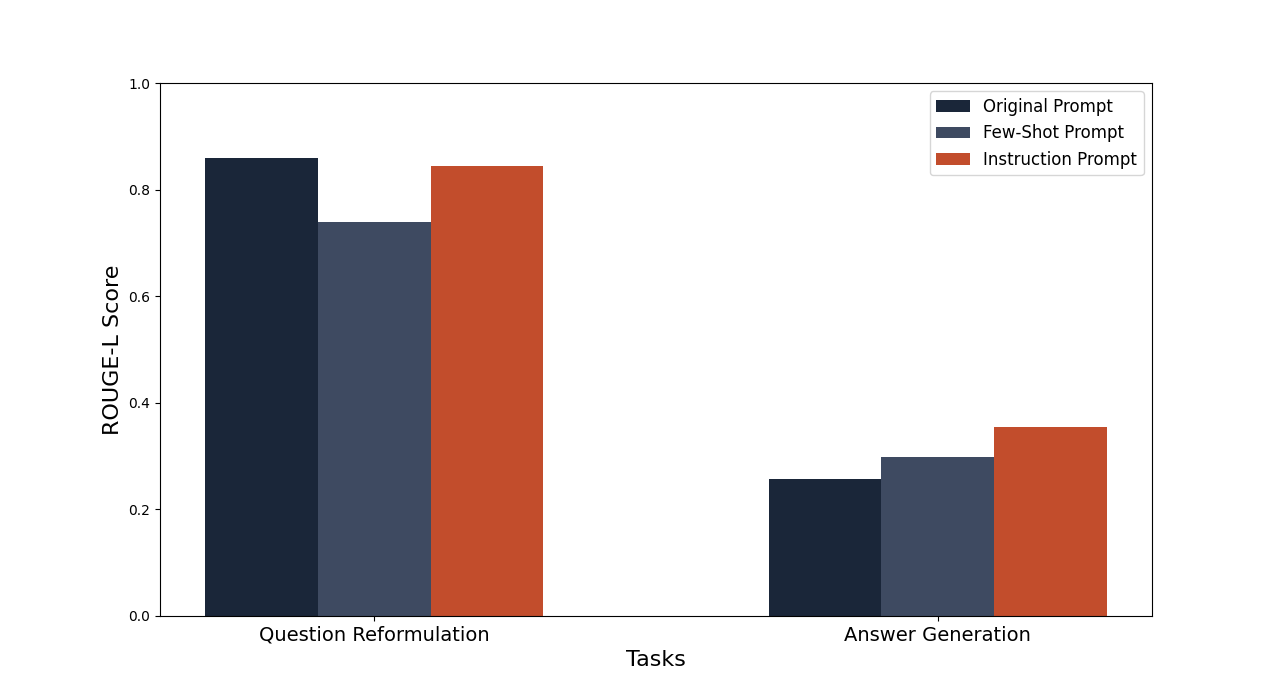
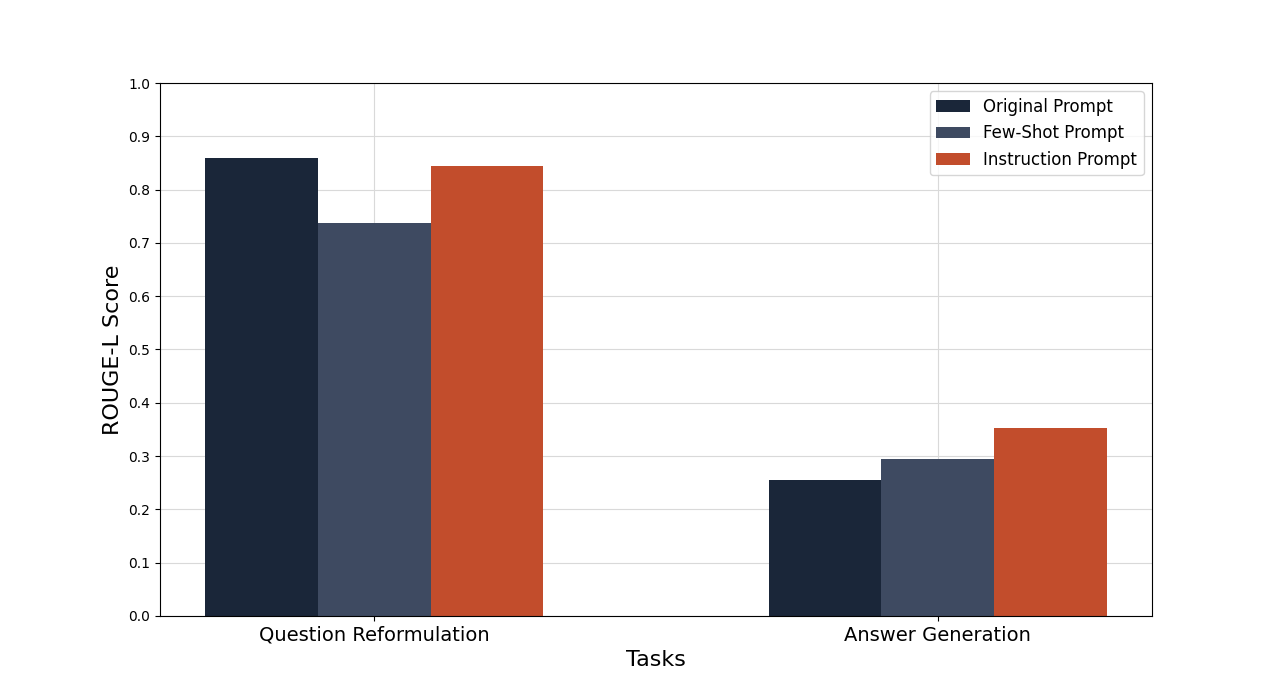
visualizations

diff --git a/testing/tests/testing_memory.py b/testing/tests/testing_memory.py
@@ -293,7 +293,12 @@ ax.set_ylabel('BLEU-4 Score', fontsize=16)
 ax.set_xticks(index + bar_width)
 ax.set_xticklabels(tasks, fontsize=14)
 ax.legend(fontsize=12)
+ax.set_yticks(np.arange(0, 1.1, 0.1))
 ax.set_ylim([0, 1])
+
+# Adding customized grid lines
+ax.grid(True, color='#D9D9D9')  # Set the color of the grid lines
+ax.set_axisbelow(True)
 
 # Show BLEU plot
 plt.show()
@@ -312,7 +317,12 @@ ax.set_ylabel('ROUGE-L Score', fontsize=16)
 ax.set_xticks(index + bar_width)
 ax.set_xticklabels(tasks, fontsize=14)
 ax.legend(fontsize=12)
+ax.set_yticks(np.arange(0, 1.1, 0.1))
 ax.set_ylim([0, 1])
+
+# Adding customized grid lines
+ax.grid(True, color='#D9D9D9')  # Set the color of the grid lines
+ax.set_axisbelow(True)
 
 # Show ROUGE plot
 plt.show()
@@ -333,7 +343,12 @@ ax.set_ylabel('Average F1-Score', fontsize=16)
 ax.set_xticks(index + bar_width)
 ax.set_xticklabels(tasks, fontsize=14)
 ax.legend(fontsize=12)
+ax.set_yticks(np.arange(0, 1.1, 0.1))
 ax.set_ylim([0, 1])
+
+# Adding customized grid lines
+ax.grid(True, color='#D9D9D9')  # Set the color of the grid lines
+ax.set_axisbelow(True)
 
 # Show semantic similarity bar plot
 plt.show()

diff --git a/testing/tests/testing_retriever.py b/testing/tests/testing_retriever.py
@@ -292,6 +292,7 @@ for csv_file, num_docs in csv_files_adjusted_scores:
 
 # Convert the counts of relevant retrievals to percentages.
 # The percentage represents the percentage of answerable questions for the retrieved docs
+total_questions = len(pd.read_csv(path + r'\testing\testing_results\retriever_results\retriever_adjusted_scores_20.csv'))/2
 for retriever in answerable_questions_adjusted_scores:
     for num_docs in answerable_questions_adjusted_scores[retriever]:
         answerable_questions_adjusted_scores[retriever][num_docs] = (answerable_questions_adjusted_scores[retriever][num_docs] / total_questions) * 100
@@ -355,6 +356,11 @@ ax.set_ylabel('Question Answerability Rate', fontsize=16)
 #ax.set_title('Question Answerability Rate by Document Count and Retriever', fontsize=20)
 ax.set_xticks(x)
 ax.set_xticklabels(labels, fontsize=14)
+ax.set_yticks(np.arange(0, max(adjusted_DPR_counts + adjusted_openai_counts + unadjusted_DPR_counts + unadjusted_openai_counts) + 10, 10))
+
+# Adding customized grid lines
+ax.grid(True, color='#D9D9D9')  # Set the color of the grid lines
+ax.set_axisbelow(True)
 
 ax.legend(fontsize=14)
 
